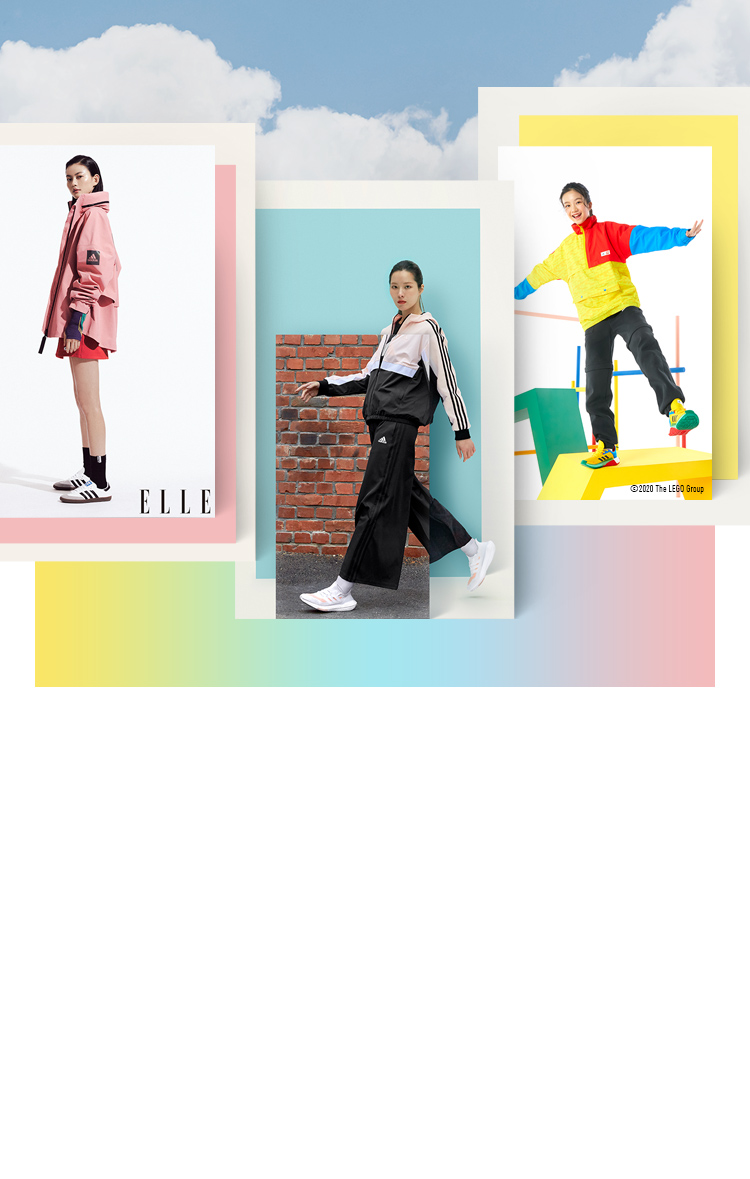
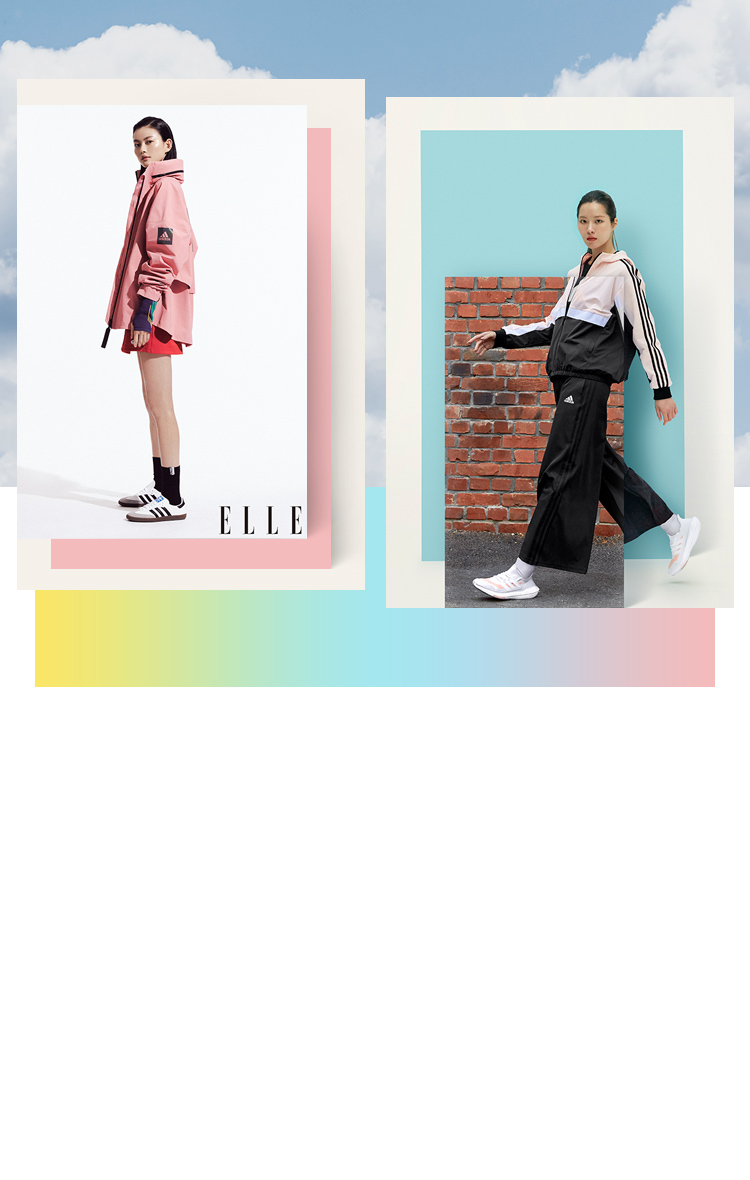
adi_CP_SP자켓 키즈 삭제

diff --git a/mobile/html/adidas/2021/event/outerjacket/build/index.html b/mobile/html/adidas/2021/event/outerjacket/build/index.html
@@ -30,7 +30,7 @@
 
 
 		<div id="container">
-<style type="text/css">@media screen and (max-width: 320px){html{font-size:10px}}@media screen and (min-width: 800px){html{font-size:12px}}.pseudo-element{content:'';display:block}#outerjacket main section{position:relative}#outerjacket main section img{width:100%}#outerjacket main h3,#outerjacket main p,#outerjacket main span,#outerjacket main em{letter-spacing:0}#outerjacket main em{font-style:normal}#outerjacket main .bg01{background:url("/images/adidas/2021/event/outerjacket/bg01.jpg") no-repeat;background-position:center;background-size:120% auto}#outerjacket main .bg02{background:url("/images/adidas/2021/event/outerjacket/bg01.jpg") no-repeat;background-position:center;background-size:120% auto}#outerjacket main .tabs{border-top:1.8px solid #f2bcbd;border-bottom:1.8px solid #f9e667;position:relative;background:#ffffff}#outerjacket main .tabs.fixed{position:fixed;width:100%;z-index:2}#outerjacket main .tabs ul{width:100%;margin:0 auto;display:flex;justify-content:space-evenly}#outerjacket main .tabs ul li{position:relative;font:1.1rem/2.5rem "adinenuPro-black";color:#000;width:33%;text-align:center;letter-spacing:0}#outerjacket main .tabs ul li.active::after{display:block;content:'';clear:both;position:absolute;bottom:-4px;left:0;right:0;width:100%;height:5px;background:url("/images/adidas/2021/event/outerjacket/tab.jpg") no-repeat;background-position:center;background-size:100% auto}#outerjacket main .visuals .visuals__text{position:absolute;top:54%;bottom:auto;left:50%;transform:translateX(-50%);margin-left:auto;white-space:nowrap;text-align:center}#outerjacket main .visuals .visuals__text h3,#outerjacket main .visuals .visuals__text p,#outerjacket main .visuals .visuals__text em{text-align:center}#outerjacket main .visuals .visuals__text h3{font:2.8rem/3.8rem "adinenuPro-black";color:#000000}#outerjacket main .visuals .visuals__text p{font:0.9rem/1.4rem "NotoSansKR";color:#000000}#outerjacket main .visuals .visuals__text p em{display:block;width:75%;font-weight:700;margin:0.5rem auto 0;padding:0.2rem 0}#outerjacket main .tab__container .section{display:none}@keyframes fade-in{from{opacity:0;-webkit-opacity:0;-moz-opacity:0}to{opacity:1;-webkit-opacity:1;-moz-opacity:1}}#outerjacket main .tab__container .section.active{display:block;animation:fade-in 1s;animation-fill-mode:forwards;transition:0.5s;-webkit-transition:0.5s;-moz-transition:0.5s}#outerjacket main .tab__container .section .head__text{padding:2rem 0 2.5rem;text-align:center}#outerjacket main .tab__container .section .head__text span{font:400 0.9rem/2.3rem "NotoSansKR";color:#000}#outerjacket main .tab__container .section .head__text p{text-align:center;font:900 1.9rem/1.9rem "NotoSansKR";color:#000}#outerjacket main .tab__container .section .head__text .btn_default{margin-top:30px}#outerjacket main .tab__container .section .content{position:relative}#outerjacket main .tab__container .section .content .txt{width:50%;position:absolute;top:75%;bottom:auto;left:56%;transform:translateY(-50%);margin-left:auto;white-space:nowrap}#outerjacket main .tab__container .section .content .txt div h3,#outerjacket main .tab__container .section .content .txt div p{text-align:left;letter-spacing:inherit}#outerjacket main .tab__container .section .content .txt div h3{font:1.8rem/2.1rem "adinenuPro-black";color:#000000;letter-spacing:0}#outerjacket main .tab__container .section .content .txt div p{font:0.9rem/1.4rem "NotoSansKR";color:#000000}@media screen and (device-width: 414px){#outerjacket main .tab__container .section .content .txt{position:absolute;top:76%;bottom:auto;left:57%;transform:translateY(-50%);margin-left:auto}#outerjacket main .tab__container .section .content .txt div h3{font-size:2rem}#outerjacket main .tab__container .section .content .txt div p{font-size:1rem}}#outerjacket main .tab__container .section .content.extra{margin:1rem 0}#outerjacket main .tab__container .section .content.extra .txt{position:absolute;top:78%;bottom:auto;left:50%;transform:translate(-50%, -50%);margin-left:auto;text-align:center}#outerjacket main .tab__container .section .content.extra .txt h3,#outerjacket main .tab__container .section .content.extra .txt p{text-align:center}#outerjacket main .tab__container .section .content .video{position:absolute;top:22.4%;bottom:auto;left:50%;transform:translate(-50%, -50%);margin-left:auto;width:72%}@media screen and (device-width: 320px){#outerjacket main .tab__container .section .content .video{top:22.2%}}#outerjacket main .tab__container .section .content .video video{width:100%}#outerjacket main .tab__container .section .desc{padding:2.5rem 0 3.5rem;white-space:nowrap}#outerjacket main .tab__container .section .desc.desc2{width:100%;margin:0 auto;padding:4rem 0}#outerjacket main .tab__container .section .desc.desc2 p em{margin-top:0.5rem;width:67%}#outerjacket main .tab__container .section .desc p{font:400 1rem/1.5rem "NotoSansKR";color:#000;text-align:center}#outerjacket main .tab__container .section .desc p em{width:100%;display:inline-block}#outerjacket main .bottoms .txt{text-align:center;position:absolute;top:50%;bottom:auto;left:50%;transform:translate(-50%, -50%);margin-left:auto;white-space:nowrap}#outerjacket main .bottoms .txt p{font:500 1rem/1.4rem "NotoSansKR";color:#000;text-align:center}#outerjacket main .bottoms .txt .btn_default{margin-top:1rem}
+<style type="text/css">@media screen and (max-width: 320px){html{font-size:10px}}@media screen and (min-width: 800px){html{font-size:12px}}.pseudo-element{content:'';display:block}#outerjacket main section{position:relative}#outerjacket main section img{width:100%}#outerjacket main h3,#outerjacket main p,#outerjacket main span,#outerjacket main em{letter-spacing:0}#outerjacket main em{font-style:normal}#outerjacket main .bg01{background:url("/images/adidas/2021/event/outerjacket/bg01.jpg") no-repeat;background-position:center;background-size:120% auto}#outerjacket main .bg02{background:url("/images/adidas/2021/event/outerjacket/bg01.jpg") no-repeat;background-position:center;background-size:120% auto}#outerjacket main .tabs{border-top:1.8px solid #f2bcbd;border-bottom:1.8px solid #f9e667;position:relative;background:#ffffff}#outerjacket main .tabs.fixed{position:fixed;width:100%;z-index:2}#outerjacket main .tabs ul{width:100%;margin:0 auto;display:flex;justify-content:space-evenly}#outerjacket main .tabs ul li{position:relative;font:1.1rem/2.5rem "adinenuPro-black";color:#000;width:50%;text-align:center;letter-spacing:0}#outerjacket main .tabs ul li.active::after{display:block;content:'';clear:both;position:absolute;bottom:-4px;left:0;right:0;width:85%;margin:0 auto;height:5px;background:url("/images/adidas/2021/event/outerjacket/tab.jpg") no-repeat;background-position:center;background-size:100% auto}#outerjacket main .visuals .visuals__text{position:absolute;top:54%;bottom:auto;left:50%;transform:translateX(-50%);margin-left:auto;white-space:nowrap;text-align:center}#outerjacket main .visuals .visuals__text h3,#outerjacket main .visuals .visuals__text p,#outerjacket main .visuals .visuals__text em{text-align:center}#outerjacket main .visuals .visuals__text h3{font:2.8rem/3.8rem "adinenuPro-black";color:#000000}#outerjacket main .visuals .visuals__text p{font:0.9rem/1.4rem "NotoSansKR";color:#000000}#outerjacket main .visuals .visuals__text p em{display:block;width:75%;font-weight:700;margin:0.5rem auto 0;padding:0.2rem 0}#outerjacket main .tab__container .section{display:none}@keyframes fade-in{from{opacity:0;-webkit-opacity:0;-moz-opacity:0}to{opacity:1;-webkit-opacity:1;-moz-opacity:1}}#outerjacket main .tab__container .section.active{display:block;animation:fade-in 1s;animation-fill-mode:forwards;transition:0.5s;-webkit-transition:0.5s;-moz-transition:0.5s}#outerjacket main .tab__container .section .head__text{padding:2rem 0 2.5rem;text-align:center}#outerjacket main .tab__container .section .head__text span{font:400 0.9rem/2.3rem "NotoSansKR";color:#000}#outerjacket main .tab__container .section .head__text p{text-align:center;font:900 1.9rem/1.9rem "NotoSansKR";color:#000}#outerjacket main .tab__container .section .head__text .btn_default{margin-top:30px}#outerjacket main .tab__container .section .content{position:relative}#outerjacket main .tab__container .section .content .txt{width:50%;position:absolute;top:75%;bottom:auto;left:56%;transform:translateY(-50%);margin-left:auto;white-space:nowrap}#outerjacket main .tab__container .section .content .txt div h3,#outerjacket main .tab__container .section .content .txt div p{text-align:left;letter-spacing:inherit}#outerjacket main .tab__container .section .content .txt div h3{font:1.8rem/2.1rem "adinenuPro-black";color:#000000;letter-spacing:0}#outerjacket main .tab__container .section .content .txt div p{font:0.9rem/1.4rem "NotoSansKR";color:#000000}@media screen and (device-width: 414px){#outerjacket main .tab__container .section .content .txt{position:absolute;top:76%;bottom:auto;left:57%;transform:translateY(-50%);margin-left:auto}#outerjacket main .tab__container .section .content .txt div h3{font-size:2rem}#outerjacket main .tab__container .section .content .txt div p{font-size:1rem}}#outerjacket main .tab__container .section .content.extra{margin:1rem 0}#outerjacket main .tab__container .section .content.extra .txt{position:absolute;top:78%;bottom:auto;left:50%;transform:translate(-50%, -50%);margin-left:auto;text-align:center}#outerjacket main .tab__container .section .content.extra .txt h3,#outerjacket main .tab__container .section .content.extra .txt p{text-align:center}#outerjacket main .tab__container .section .content .video{position:absolute;top:22.4%;bottom:auto;left:50%;transform:translate(-50%, -50%);margin-left:auto;width:72%}@media screen and (device-width: 320px){#outerjacket main .tab__container .section .content .video{top:22.2%}}#outerjacket main .tab__container .section .content .video video{width:100%}#outerjacket main .tab__container .section .desc{padding:2.5rem 0 3.5rem;white-space:nowrap}#outerjacket main .tab__container .section .desc.desc2{width:100%;margin:0 auto;padding:4rem 0}#outerjacket main .tab__container .section .desc.desc2 p em{margin-top:0.5rem;width:67%}#outerjacket main .tab__container .section .desc p{font:400 1rem/1.5rem "NotoSansKR";color:#000;text-align:center}#outerjacket main .tab__container .section .desc p em{width:100%;display:inline-block}#outerjacket main .bottoms .txt{text-align:center;position:absolute;top:50%;bottom:auto;left:50%;transform:translate(-50%, -50%);margin-left:auto;white-space:nowrap}#outerjacket main .bottoms .txt p{font:500 1rem/1.4rem "NotoSansKR";color:#000;text-align:center}#outerjacket main .bottoms .txt .btn_default{margin-top:1rem}
 </style>
 			<link rel="stylesheet" type="text/css" href="/css/slick.css" />
 			<div id="outerjacket">
@@ -64,7 +64,7 @@
 						<ul>
 							<li class="active">OUTDOOR</li>
 							<li>SPORTSWEAR</li>
-							<li>KIDS</li>
+							<!-- <li>KIDS</li> -->
 						</ul>
 					</div>
 
@@ -185,7 +185,7 @@
 								<img src="/images/adidas/2021/event/outerjacket/sport03.jpg" alt="">
 							</div>
 						</section>
-						<section class="section03 section">
+						<!-- <section class="section03 section">
 							<div class="head__text">
 								<span>
 									우리 아이들의 생기 넘치는 봄을 위해
@@ -221,7 +221,7 @@
 										poster="/images/adidas/2021/event/outerjacket/video.jpg"></video>
 								</div>
 							</div>
-						</section>
+						</section> -->
 					</section>
 
 					<section class="bottoms">

diff --git a/mobile/html/adidas/pn/ALLABOUTJACKET.html b/mobile/html/adidas/pn/ALLABOUTJACKET.html
@@ -72,7 +72,7 @@
 			position: relative;
 			font: 1.1rem/2.5rem "adinenuPro-black";
 			color: #000;
-			width: 33%;
+			width: 50%;
 			text-align: center;
 			letter-spacing: 0
 		}
@@ -85,7 +85,8 @@
 			bottom: -4px;
 			left: 0;
 			right: 0;
-			width: 100%;
+			width: 85%;
+			margin: 0 auto;
 			height: 5px;
 			background: url("/images/adidas/2021/event/outerjacket/tab.jpg") no-repeat;
 			background-position: center;
@@ -344,7 +345,7 @@
 				<ul>
 					<li class="active">OUTDOOR</li>
 					<li>SPORTSWEAR</li>
-					<li>KIDS</li>
+					<!-- <li>KIDS</li> -->
 				</ul>
 			</div>
 
@@ -465,43 +466,43 @@
 						<img src="/images/adidas/2021/event/outerjacket/sport03.jpg" alt="">
 					</div>
 				</section>
-				<section class="section03 section">
-					<div class="head__text">
-						<span>
-							우리 아이들의 생기 넘치는 봄을 위해
-						</span>
-						<p>
-							키즈 자켓 컬렉션
-						</p>
-						<div class="btn_default">
-							<a href="https://m.adidas.co.kr/MO/Promotion/landingPage.action?NFN_ST=Y&pageNo=1603&term=1"
-								campaign-label="구매하기">
-								구매하기
-							</a>
-						</div>
-					</div>
-					<div class="content">
-						<img src="/images/adidas/2021/event/outerjacket/kids01.jpg" alt="">
-					</div>
-					<div class="desc desc2">
-						<p>
-							엄마도 아이도 좋아하는 산뜻한 디자인이라면<br>
-							외출 전 실랑이할 필요 전혀 없어요.<br>
-							바람을 든든하게 막아주는 기능성까지 챙겼으니<br>
-							코끝 시린 봄 바람이 불어와도 안심이지요.<br>
-							<em class="bg02">다양한 봄 시즌 아우터를 확인해 보세요!</em>
-						</p>
-					</div>
-					<div class="content">
-						<img src="/images/adidas/2021/event/outerjacket/kids02.jpg" alt="">
-						<div class="video">
-							<video
-								src="https://image.adidas.co.kr/upload/design_temp/video/2021/a/outerjacket/video_mo.mp4"
-								autoplay playsinline muted loop
-								poster="/images/adidas/2021/event/outerjacket/video.jpg"></video>
-						</div>
-					</div>
-				</section>
+				<!-- <section class="section03 section">
+								<div class="head__text">
+									<span>
+										우리 아이들의 생기 넘치는 봄을 위해
+									</span>
+									<p>
+										키즈 자켓 컬렉션
+									</p>
+									<div class="btn_default">
+										<a href="https://m.adidas.co.kr/MO/Promotion/landingPage.action?NFN_ST=Y&pageNo=1603&term=1"
+											campaign-label="구매하기">
+											구매하기
+										</a>
+									</div>
+								</div>
+								<div class="content">
+									<img src="/images/adidas/2021/event/outerjacket/kids01.jpg" alt="">
+								</div>
+								<div class="desc desc2">
+									<p>
+										엄마도 아이도 좋아하는 산뜻한 디자인이라면<br>
+										외출 전 실랑이할 필요 전혀 없어요.<br>
+										바람을 든든하게 막아주는 기능성까지 챙겼으니<br>
+										코끝 시린 봄 바람이 불어와도 안심이지요.<br>
+										<em class="bg02">다양한 봄 시즌 아우터를 확인해 보세요!</em>
+									</p>
+								</div>
+								<div class="content">
+									<img src="/images/adidas/2021/event/outerjacket/kids02.jpg" alt="">
+									<div class="video">
+										<video
+											src="https://image.adidas.co.kr/upload/design_temp/video/2021/a/outerjacket/video_mo.mp4"
+											autoplay playsinline muted loop
+											poster="/images/adidas/2021/event/outerjacket/video.jpg"></video>
+									</div>
+								</div>
+							</section> -->
 			</section>
 
 			<section class="bottoms">

diff --git a/mobile/html/adidas/2021/event/outerjacket/index.scss b/mobile/html/adidas/2021/event/outerjacket/index.scss
@@ -18,7 +18,7 @@
 		}
 		@for $i from 1 through 2 {
 			.bg0#{$i} {
-				background: url('/images/adidas/2021/event/outerjacket/bg01.jpg') no-repeat;
+				background: url("/images/adidas/2021/event/outerjacket/bg01.jpg") no-repeat;
 				// background: url('/images/adidas/2021/event/outerjacket/bg0#{$i}.jpg') no-repeat;
 				background-position: center;
 				background-size: 120% auto;
@@ -43,7 +43,8 @@
 					position: relative;
 					font: 1.1rem/2.5rem $adinBlk;
 					color: #000;
-					width: 33%;
+					// width: 33%;
+					width: 50%;
 					text-align: center;
 					letter-spacing: 0;
 					&.active{
@@ -55,9 +56,10 @@
 							bottom: -4px;
 							left: 0;
 							right: 0;
-							width: 100%;
+							width: 85%;
+							margin: 0 auto;
 							height: 5px;
-							background: url('/images/adidas/2021/event/outerjacket/tab.jpg') no-repeat;
+							background: url("/images/adidas/2021/event/outerjacket/tab.jpg") no-repeat;
 							background-position: center;
 							background-size: 100% auto;
 						}

diff --git a/mobile/html/adidas/2021/event/outerjacket/index.html b/mobile/html/adidas/2021/event/outerjacket/index.html
@@ -62,7 +62,7 @@
 						<ul>
 							<li class="active">OUTDOOR</li>
 							<li>SPORTSWEAR</li>
-							<li>KIDS</li>
+							<!-- <li>KIDS</li> -->
 						</ul>
 					</div>
 
@@ -183,7 +183,7 @@
 								<img src="/images/adidas/2021/event/outerjacket/sport03.jpg" alt="">
 							</div>
 						</section>
-						<section class="section03 section">
+						<!-- <section class="section03 section">
 							<div class="head__text">
 								<span>
 									우리 아이들의 생기 넘치는 봄을 위해
@@ -219,7 +219,7 @@
 										poster="/images/adidas/2021/event/outerjacket/video.jpg"></video>
 								</div>
 							</div>
-						</section>
+						</section> -->
 					</section>
 
 					<section class="bottoms">
